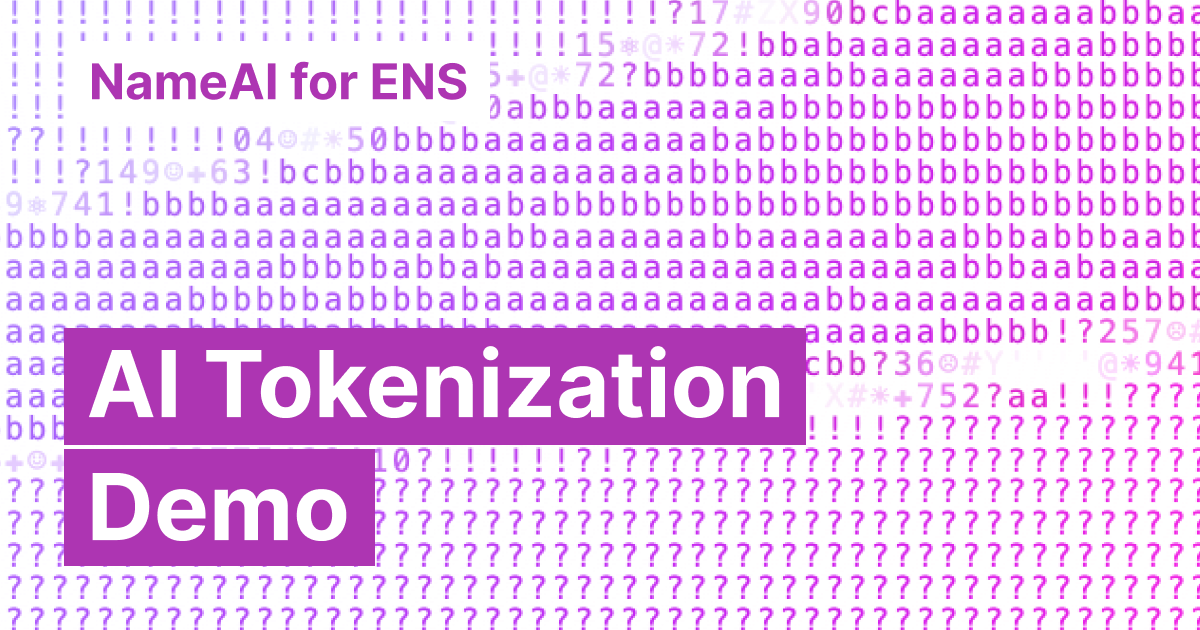
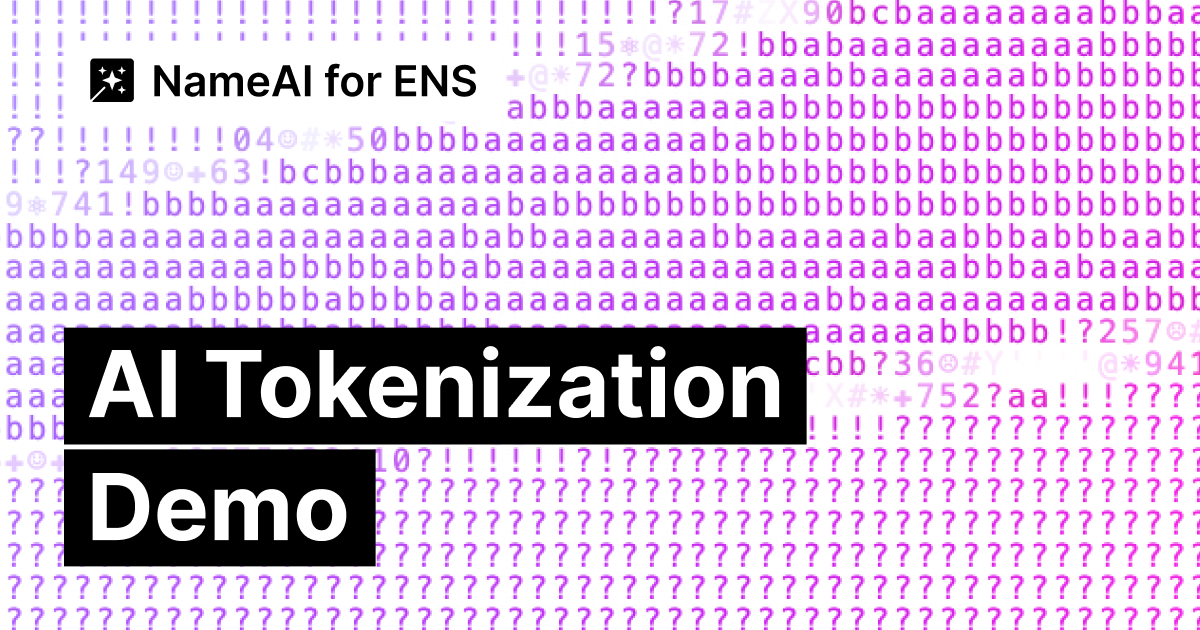
update-nameai-design-assets

Changed region(s): [[0.0308, 0.5127, 0.6783, 0.9048], [0.0617, 0.0603, 0.4317, 0.181]]

diff --git a/apps/nameai.io/components/nameai-logo.tsx b/apps/nameai.io/components/nameai-logo.tsx
@@ -1,0 +1,54 @@
+export const NameaiLogo = (props: React.SVGProps<SVGSVGElement>) => {
+  return (
+    <svg
+      width="45"
+      height="45"
+      viewBox="0 0 45 45"
+      fill="none"
+      xmlns="http://www.w3.org/2000/svg"
+      {...props}
+    >
+      <g clipPath="url(#clip0_539_2359)">
+        <path
+          d="M0 4C0 1.79086 1.79086 0 4 0H41C43.2091 0 45 1.79086 45 4V41C45 43.2091 43.2091 45 41 45H4C1.79086 45 0 43.2091 0 41V4Z"
+          fill="black"
+        />
+        <path
+          fillRule="evenodd"
+          clipRule="evenodd"
+          d="M1.79084 44.3348C1.22797 43.9611 0.76516 43.4488 0.451172 42.8464L14.2967 29L15.3547 29.35L15.3557 29.349L15.7087 30.417L1.79084 44.3348Z"
+          fill="white"
+        />
+        <path
+          fillRule="evenodd"
+          clipRule="evenodd"
+          d="M22.5 12L19.6364 19.6364L12 22.5L19.6364 25.3636L22.5 33L25.3636 25.3636L33 22.5L25.3636 19.6364L22.5 12Z"
+          fill="white"
+        />
+        <path
+          fillRule="evenodd"
+          clipRule="evenodd"
+          d="M12.5 8L11.2727 11.2727L8 12.5L11.2727 13.7273L12.5 17L13.7273 13.7273L17 12.5L13.7273 11.2727L12.5 8Z"
+          fill="white"
+        />
+        <path
+          fillRule="evenodd"
+          clipRule="evenodd"
+          d="M32.5 28L31.2727 31.2727L28 32.5L31.2727 33.7273L32.5 37L33.7273 33.7273L37 32.5L33.7273 31.2727L32.5 28Z"
+          fill="white"
+        />
+        <path
+          fillRule="evenodd"
+          clipRule="evenodd"
+          d="M32.5 8L31.2727 11.2727L28 12.5L31.2727 13.7273L32.5 17L33.7273 13.7273L37 12.5L33.7273 11.2727L32.5 8Z"
+          fill="white"
+        />
+      </g>
+      <defs>
+        <clipPath id="clip0_539_2359">
+          <rect width="45" height="45" fill="white" />
+        </clipPath>
+      </defs>
+    </svg>
+  );
+};

diff --git a/apps/nameai.io/app/layout.tsx b/apps/nameai.io/app/layout.tsx
@@ -19,6 +19,7 @@ import {
   defaultMetaOpengraph,
   defaultMetaTwitter,
 } from "./shared-metadata";
+import { NameaiLogo } from "@/components/nameai-logo";
 
 export const metadata: Metadata = {
   metadataBase: new URL(baseUrl),
@@ -73,8 +74,9 @@ export default function RootLayout({
                 <div className="flex flex-row justify-between items-center gap-1 cursor-pointer flex-shri0 pr-2">
                   <Link
                     href="/"
-                    className="text-black not-italic font-bold text-[22.683px] leading-[22.683px] tracking-[-0.907px] sm:text-[27.816px] sm:leading-[27.816px] sm:tracking-[-1.113px]"
+                    className="flex flex-row items-center gap-2 text-black not-italic font-bold text-[22.683px] leading-[22.683px] tracking-[-0.907px] sm:text-[27.816px] sm:leading-[27.816px] sm:tracking-[-1.113px]"
                   >
+                    <NameaiLogo className="w-6 h-6" />
                     NameAI
                   </Link>
                 </div>
